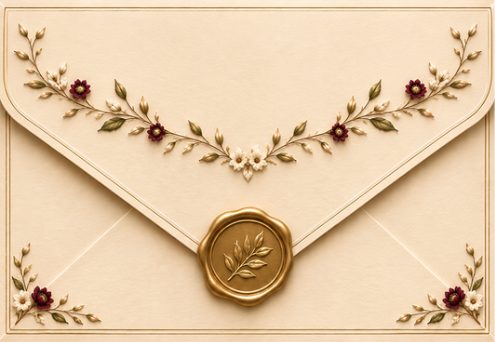
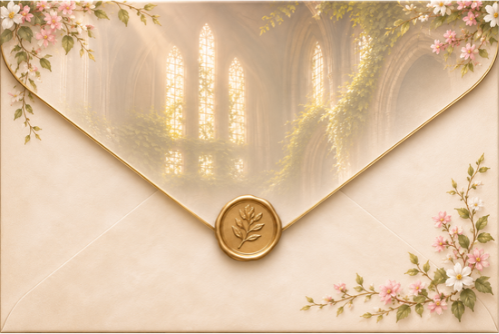
edit

diff --git a/index.html b/index.html
@@ -5,6 +5,24 @@
 <meta name="viewport" content="width=device-width, initial-scale=1, viewport-fit=cover">
 <meta name="theme-color" content="#2b3322">
 <title>علي & فاطمة | دعوة زفاف</title>
+<meta name="description" content="Ali ♡ Fatima">
+
+    <!-- Open Graph Meta Tags -->
+    <meta property="og:url" content="https://touch-invetation.github.io/Ali-Fatima/" />
+    <meta property="og:type" content="website" />
+    <meta property="og:title" content="Wedding Invitation" />
+    <meta property="og:image" content="https://touch-invetation.github.io/Ali-Fatima/invite.png" />
+    <meta property="og:image:secure_url" content="https://touch-invetation.github.io/Ali-Fatima/invite.png" />
+    <meta property="og:image:type" content="image/png" />
+    <meta property="og:image:width" content="512" />
+    <meta property="og:image:height" content="512" />
+
+    <!-- Twitter Meta Tags -->
+    <meta name="twitter:card" content="summary" />
+    <meta property="twitter:domain" content="touch-invetation.github.io" />
+    <meta property="twitter:url" content="https://touch-invetation.github.io/Ali-Fatima/" />
+    <meta name="twitter:title" content="Wedding Invitation" />
+    <meta name="twitter:image" content="https://touch-invetation.github.io/Ali-Fatima/invite.png" />
 <link rel="preconnect" href="https://fonts.googleapis.com">
 <link rel="preconnect" href="https://fonts.gstatic.com" crossorigin>
 <link href="https://fonts.googleapis.com/css2?family=Amiri:wght@400;700&family=Cormorant+Garamond:ital,wght@0,500;0,600;1,500&display=swap" rel="stylesheet">
